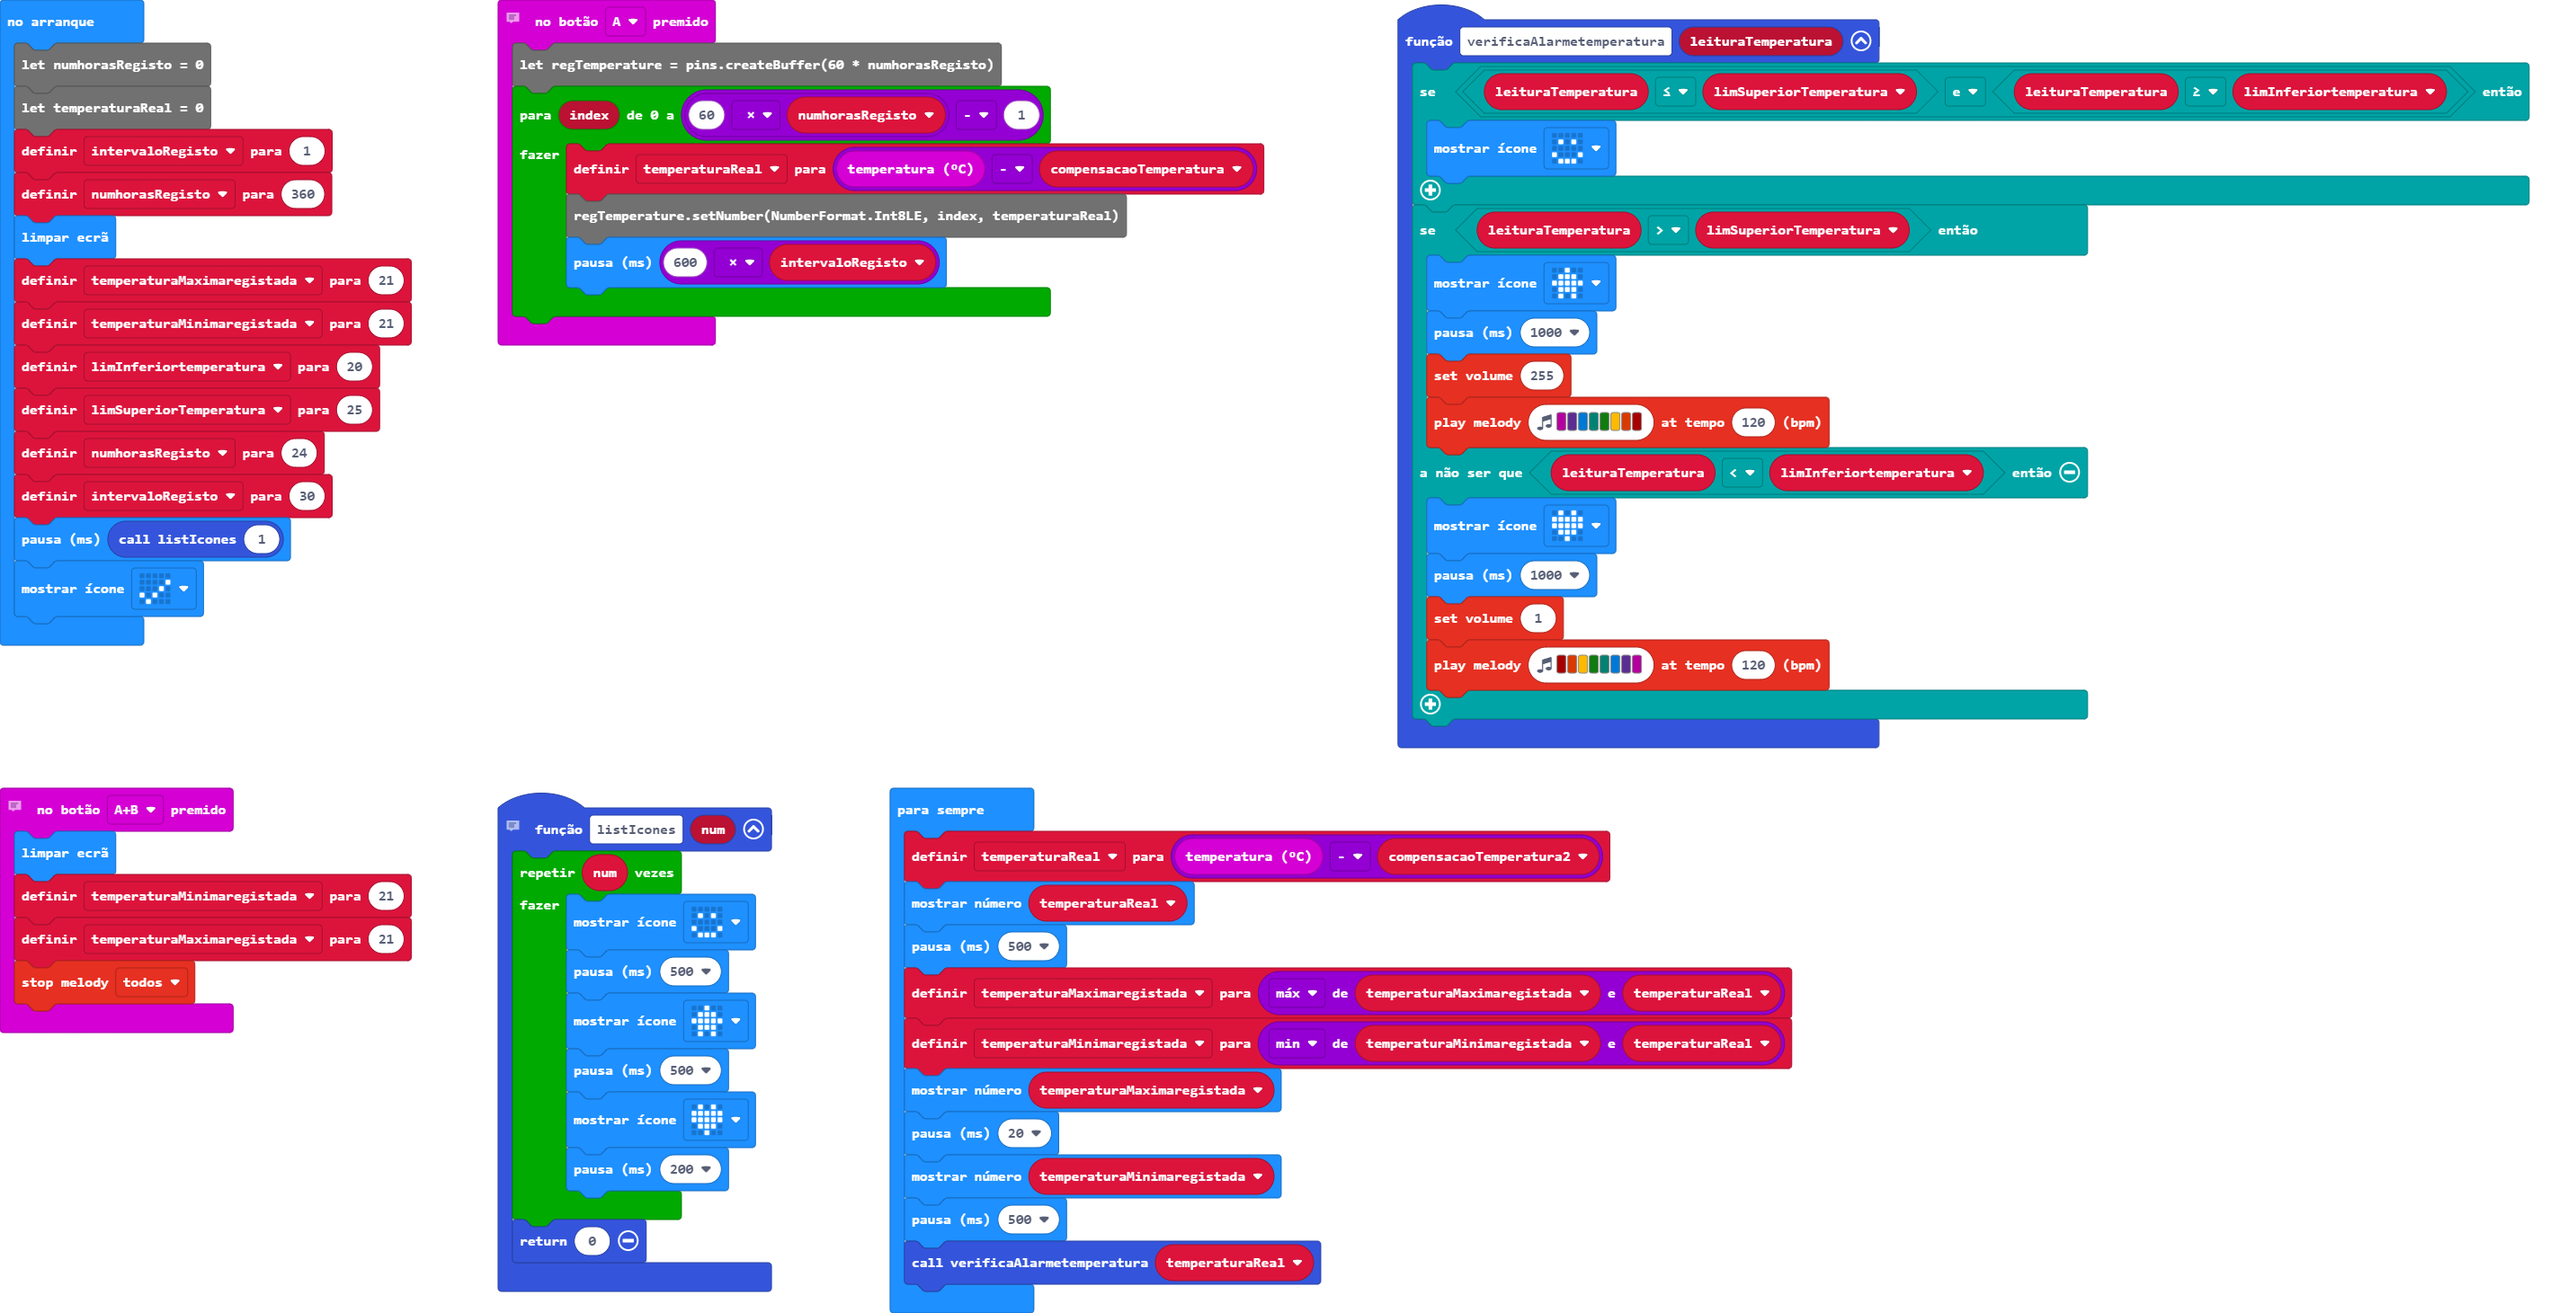
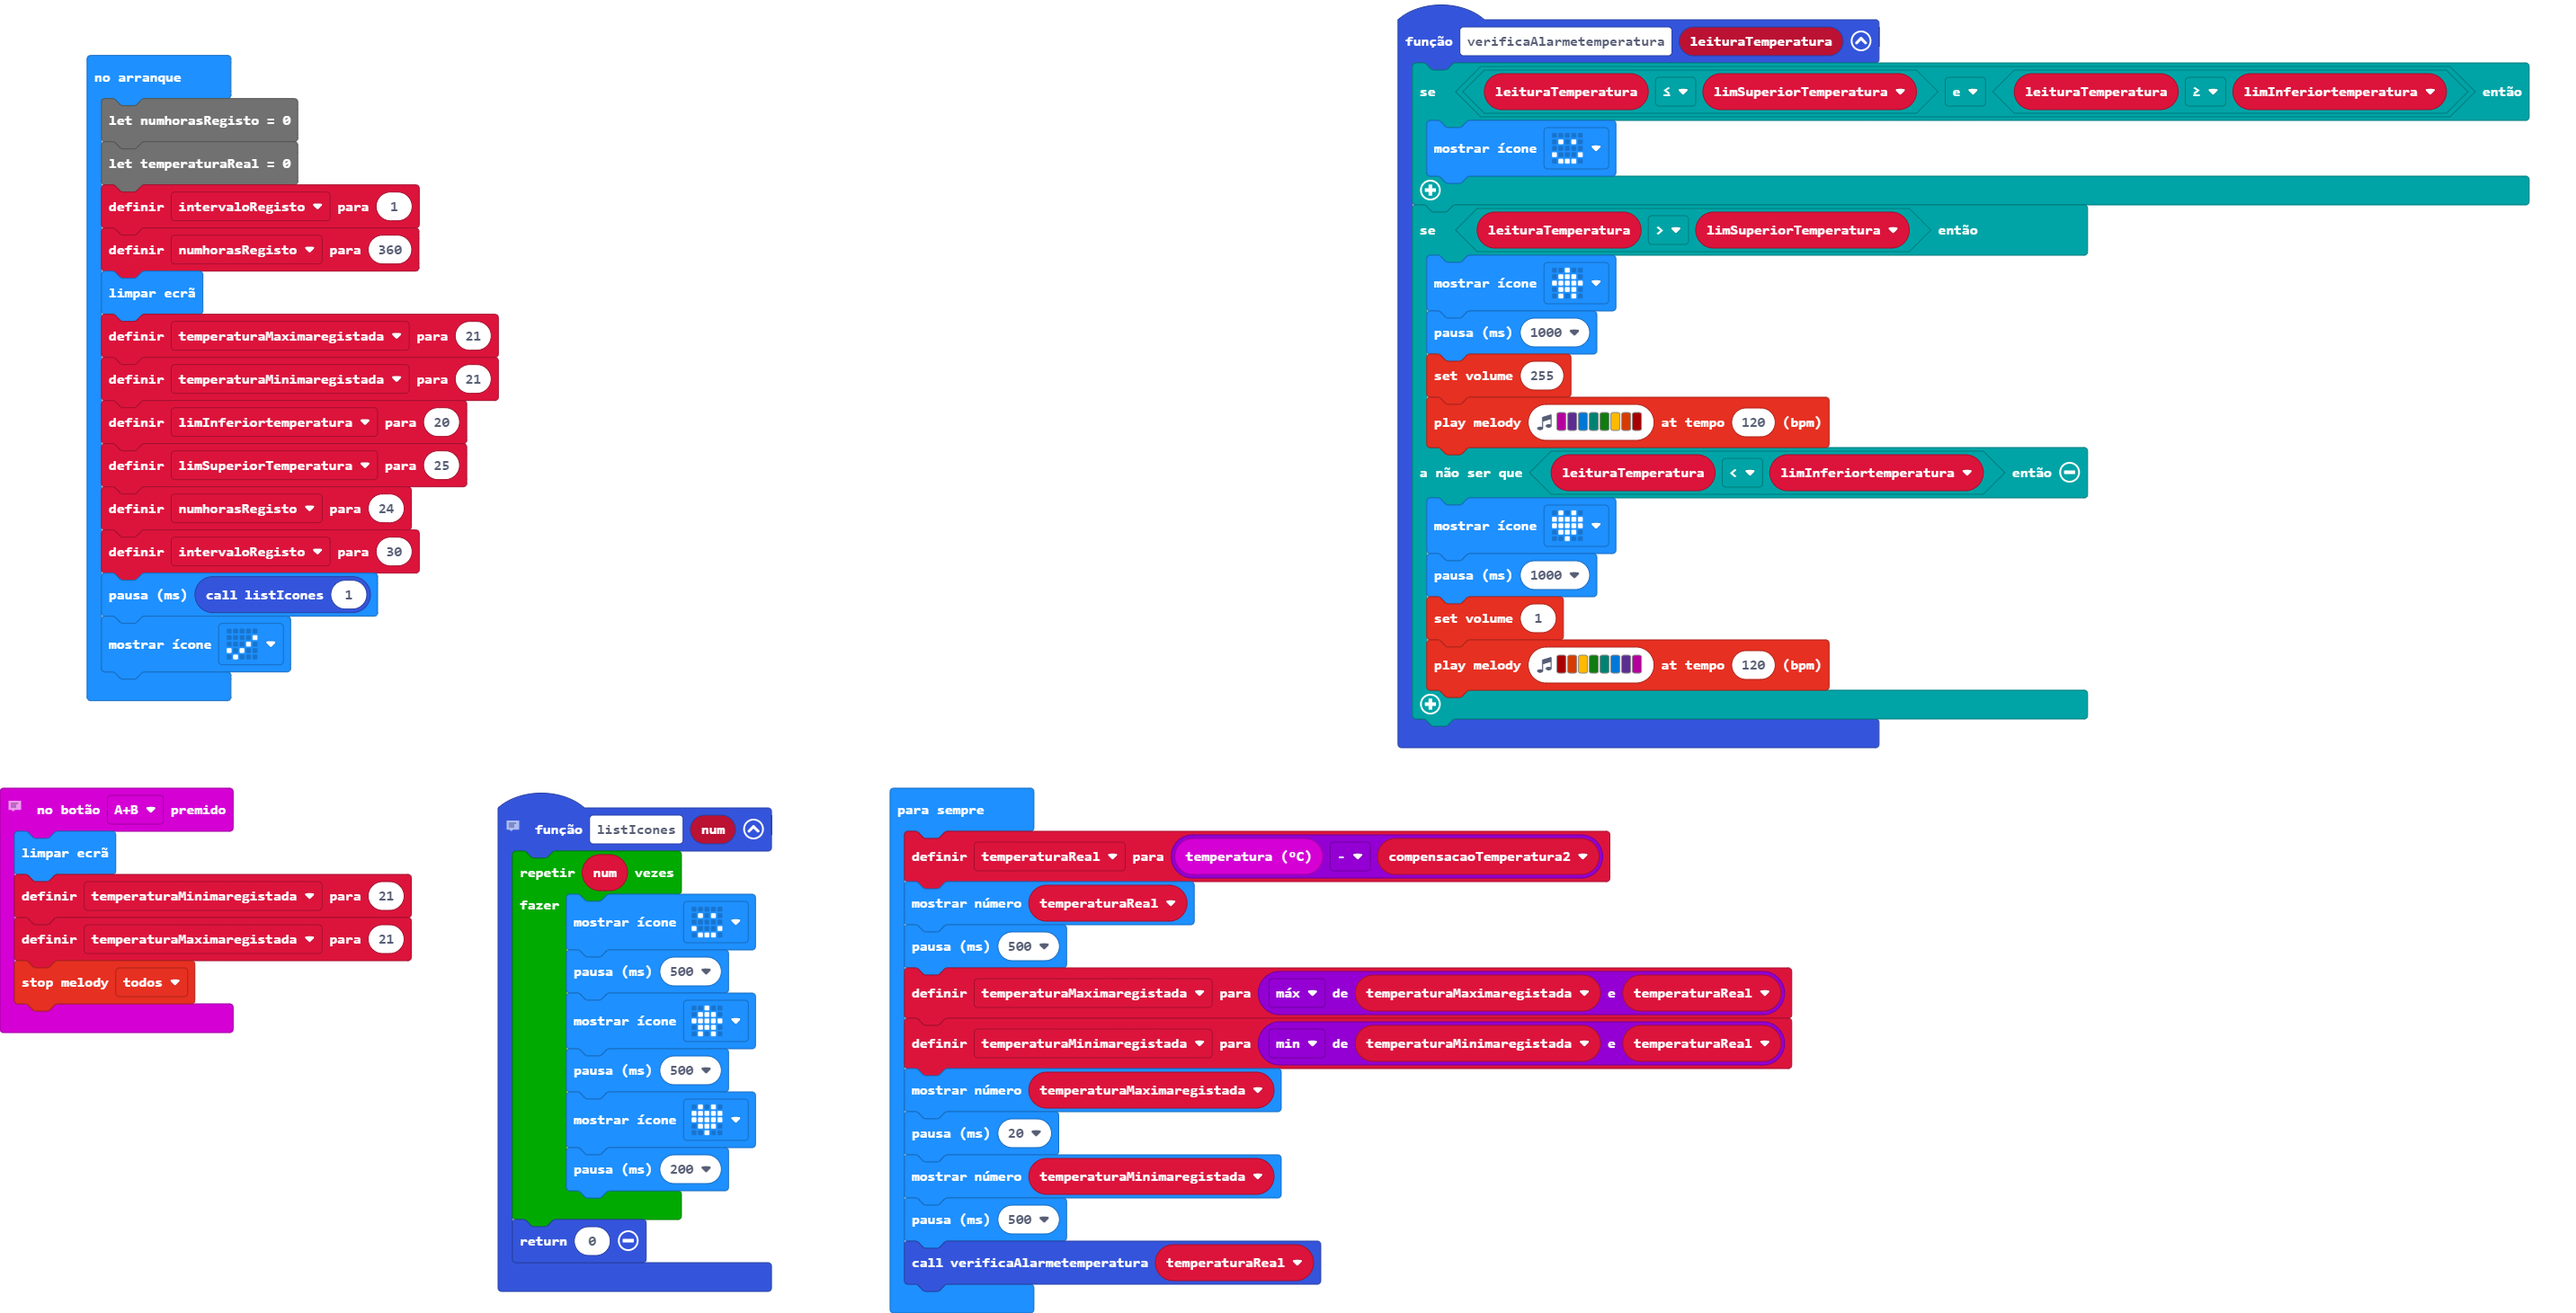
Update main.blocks, main.ts

Changed region(s): [[0.0, 0.0, 0.497, 0.5544]]

diff --git a/main.ts b/main.ts
@@ -1,17 +1,3 @@
-// Trabalho realizado por Fernando Campos e Aurora Graça
-// Verifica a temperatura entre 20 e 25 ºC no MicroBit
-// Regista Numa Lista através de Buffer as leituras periódica de temperatura para posterior DownLoad.Pode ser usado para verificação das variações motivada pelo transporte.
-// É ntroduzido um valor de compensação dado que a temperatura é do CPU e não do ambiente.
-// O valor por defeito é 2ºC mas poderá ser maior ou menor
-input.onButtonPressed(Button.A, function () {
-    let regTemperature = pins.createBuffer(60 * numhorasRegisto)
-for (let index = 0; index <= 60 * numhorasRegisto - 1; index++) {
-        let compensacaoTemperatura = 0
-        temperaturaReal = input.temperature() - compensacaoTemperatura
-        regTemperature.setNumber(NumberFormat.Int8LE, index, temperaturaReal)
-basic.pause(600 * intervaloRegisto)
-    }
-})
 function verificaAlarmetemperatura (leituraTemperatura: number) {
     if (leituraTemperatura <= limSuperiorTemperatura && leituraTemperatura >= limInferiortemperatura) {
         basic.showIcon(IconNames.Happy)
@@ -52,10 +38,9 @@ let limSuperiorTemperatura = 0
 let limInferiortemperatura = 0
 let temperaturaMinimaregistada = 0
 let temperaturaMaximaregistada = 0
-let intervaloRegisto = 0
 let numhorasRegisto = 0
 let temperaturaReal = 0
-intervaloRegisto = 1
+let intervaloRegisto = 1
 numhorasRegisto = 360
 basic.clearScreen()
 temperaturaMaximaregistada = 21
